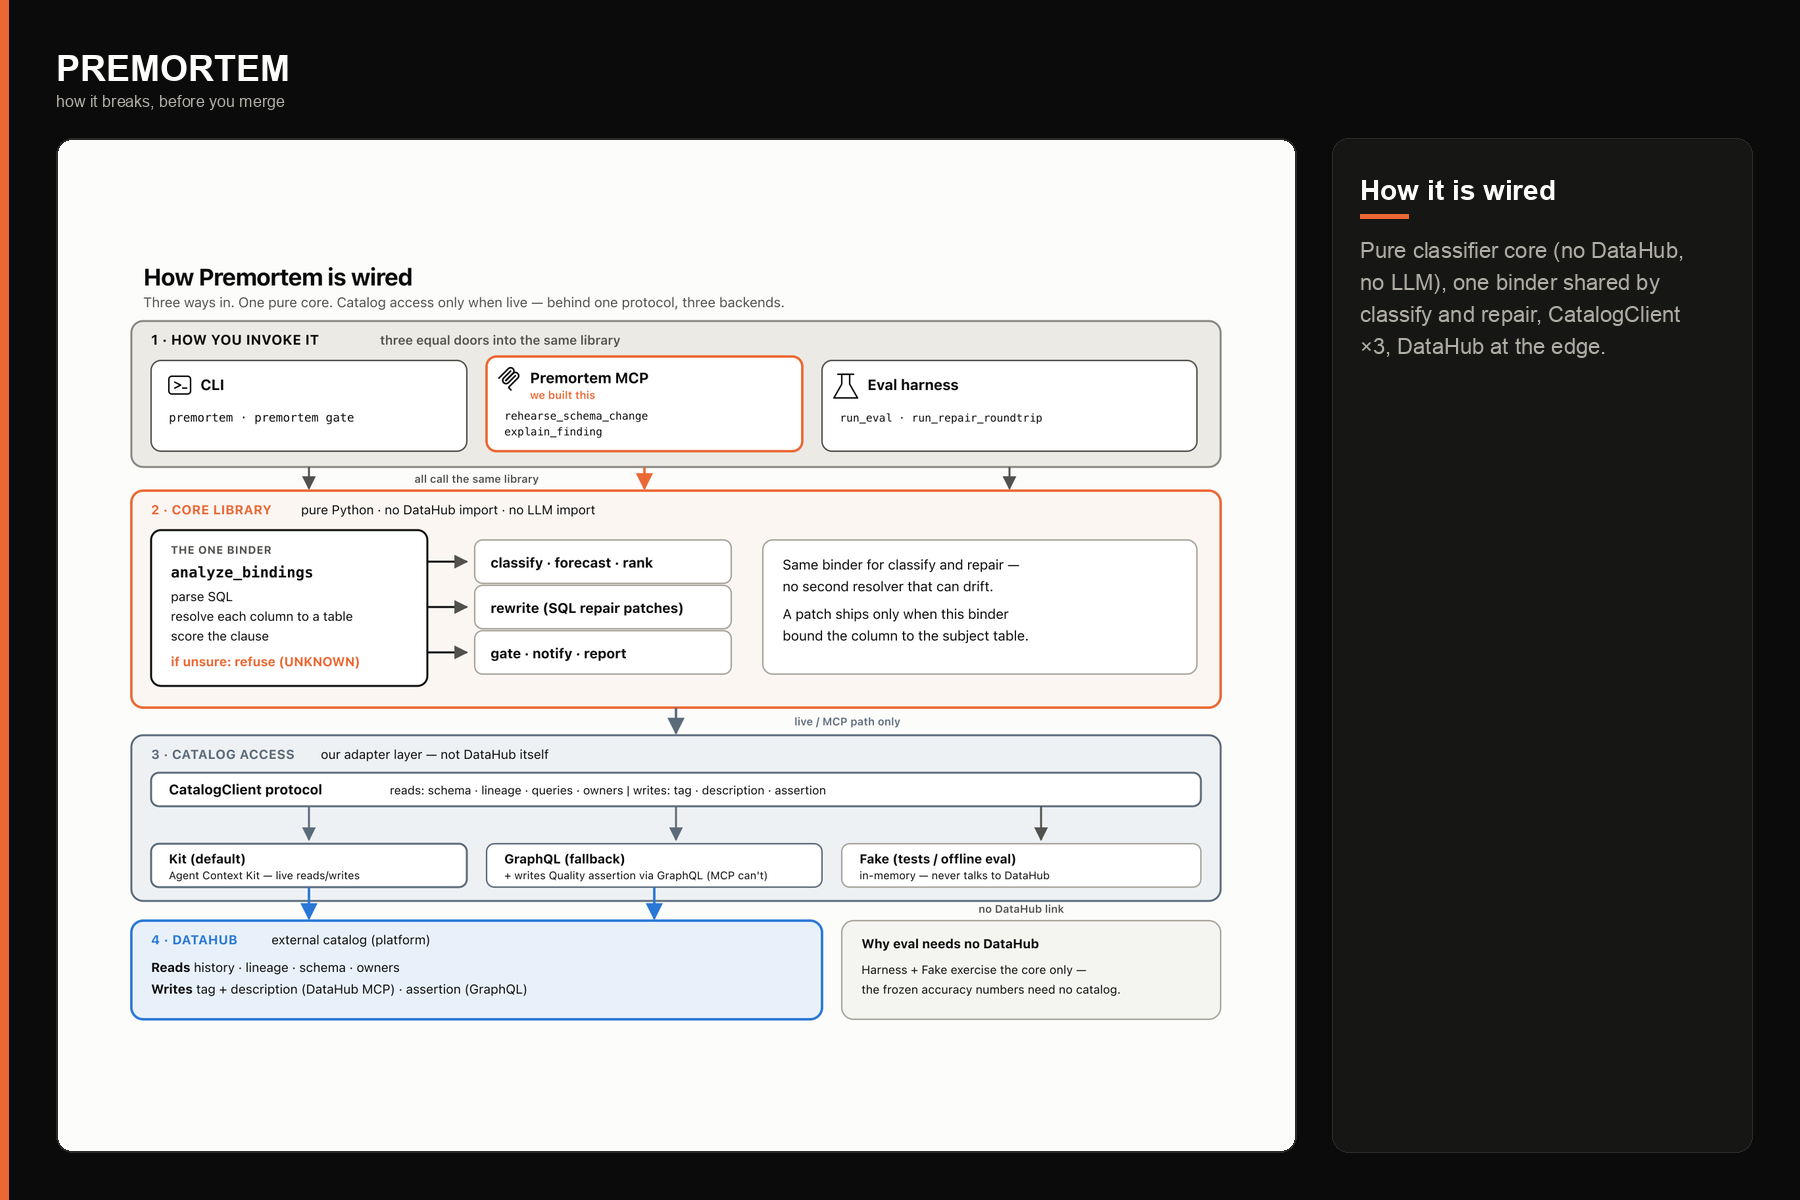
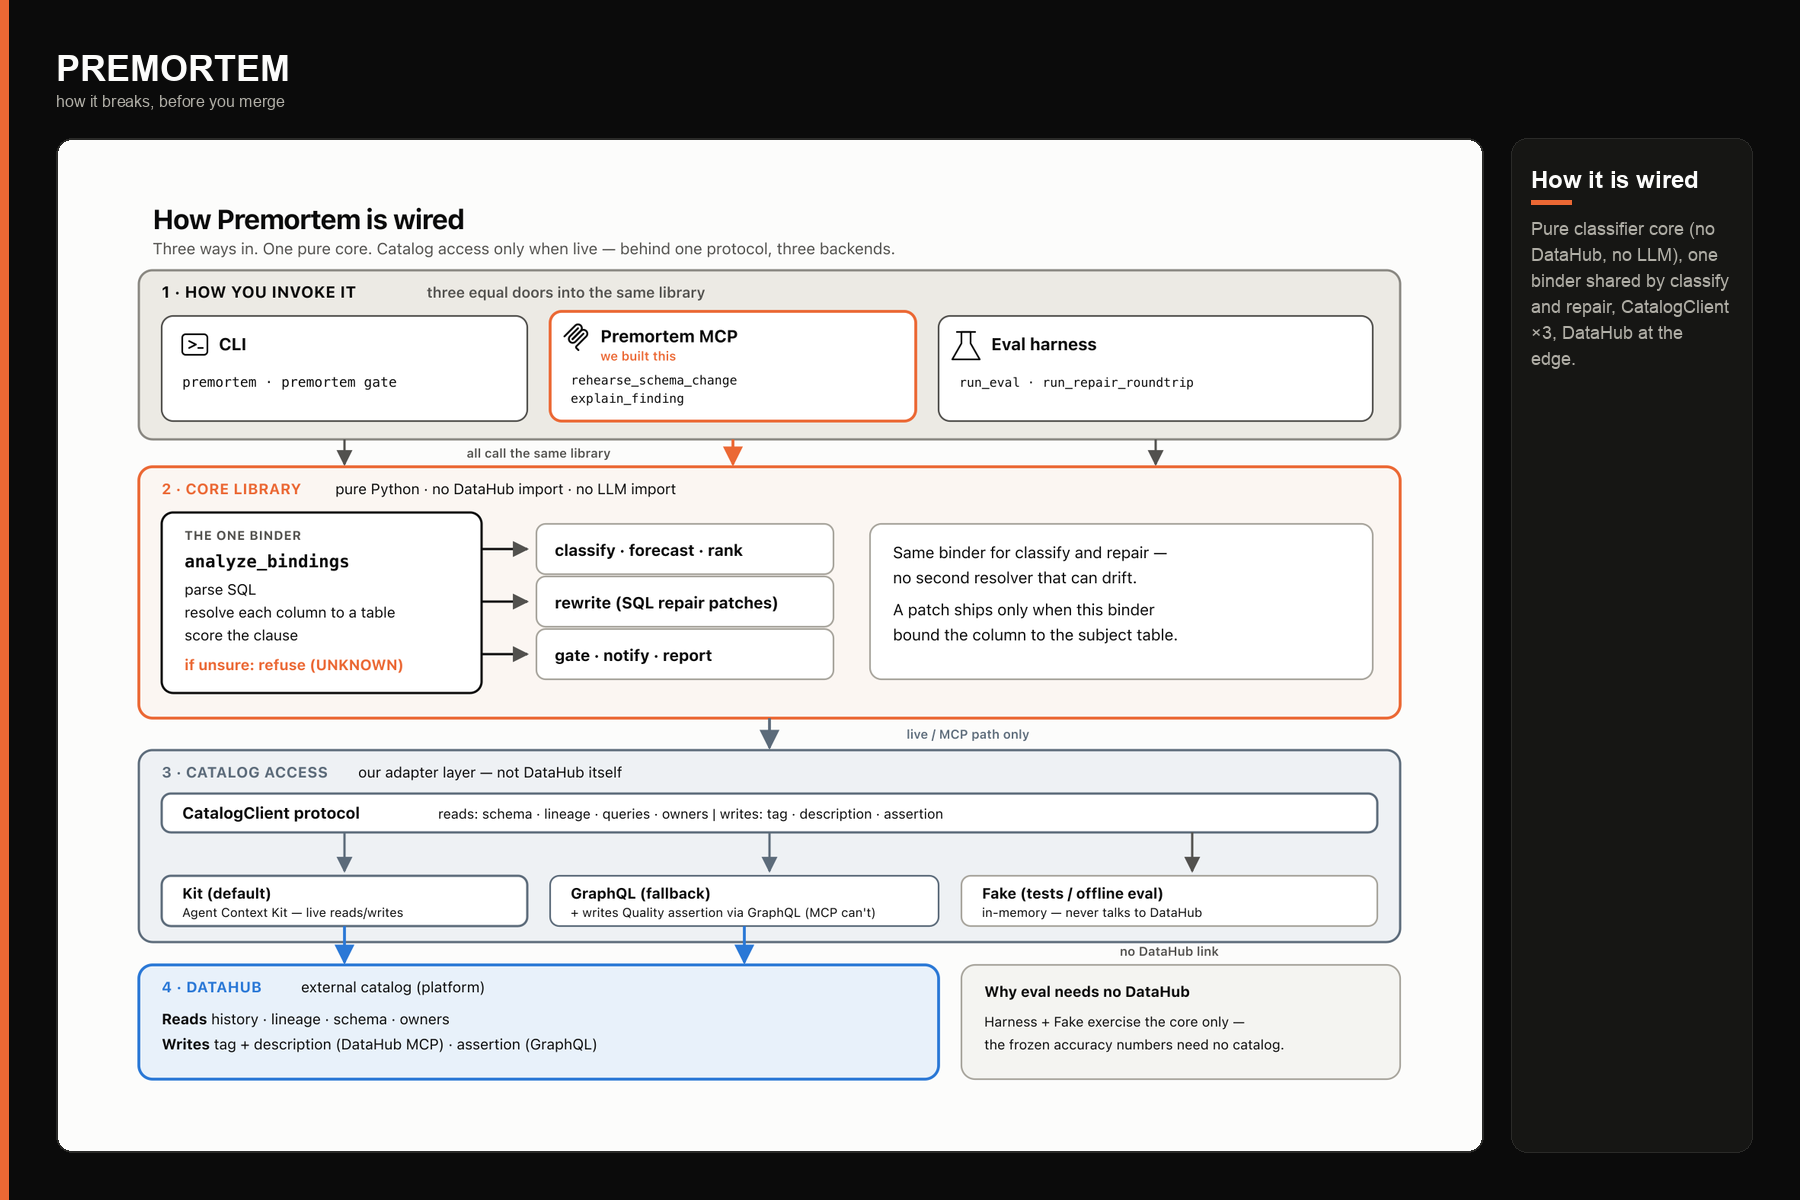
Widen gallery frames to an 85/15 diagram-to-caption split.
Gives the architecture and other diagrams more room inside the canvas.

Changed region(s): [[0.0622, 0.0925, 0.9644, 0.9867]]

diff --git a/tools/frame_gallery_images.py b/tools/frame_gallery_images.py
@@ -19,8 +19,11 @@ OUT = MEDIA / "gallery"
 W, H = 1800, 1200
 PAD = 48
 LEFT = 56
-CAPTION_W = 420
-GAP = 36
+GAP = 28
+# Content row between left margin and right pad: 85% diagram / 15% caption
+CONTENT_W = W - LEFT - PAD
+INSET_W = int(CONTENT_W * 0.85) - GAP // 2
+CAPTION_W = CONTENT_W - INSET_W - GAP
 BRAND = "#0b0b0b"
 ACCENT = "#eb6834"
 PANEL = "#161614"
@@ -111,17 +114,15 @@ def frame_one(stem: str, title: str, caption: str) -> Path:
     draw.rectangle((0, 0, 8, H), fill=ACCENT)
 
     brand_font = _font(36, bold=True)
-    title_font = _font(28, bold=True)
-    body_font = _font(22)
     small_font = _font(16)
 
     draw.text((LEFT, PAD), "PREMORTEM", font=brand_font, fill=INK)
     draw.text((LEFT, PAD + 44), "how it breaks, before you merge", font=small_font, fill=MUTED)
 
-    # Diagram inset area
+    # Diagram inset area (85% of content width)
     inset_x = LEFT
     inset_y = PAD + 90
-    inset_w = W - LEFT - CAPTION_W - GAP - PAD
+    inset_w = INSET_W
     inset_h = H - inset_y - PAD
 
     # White panel for diagram
@@ -145,28 +146,30 @@ def frame_one(stem: str, title: str, caption: str) -> Path:
     dy = inset_y + (inset_h - nh) // 2
     canvas.paste(diagram, (dx, dy))
 
-    # Caption panel
+    # Caption panel (15% of content width)
     cx = inset_x + inset_w + GAP
     cy = inset_y
     draw.rounded_rectangle(
-        (cx, cy, cx + CAPTION_W - PAD + LEFT - 8, cy + inset_h),
+        (cx, cy, cx + CAPTION_W, cy + inset_h),
         radius=16,
         fill=PANEL,
         outline="#2a2a28",
         width=1,
     )
-    tx = cx + 28
-    ty = cy + 36
+    tx = cx + 20
+    ty = cy + 28
+    # Slightly smaller type so 15% panel still reads
+    title_font = _font(24, bold=True)
+    body_font = _font(18)
     draw.text((tx, ty), title, font=title_font, fill=INK)
-    # Accent underline
-    draw.rectangle((tx, ty + 40, tx + 48, ty + 44), fill=ACCENT)
+    draw.rectangle((tx, ty + 34, tx + 40, ty + 38), fill=ACCENT)
 
-    body_top = ty + 64
-    lines = _wrap(draw, caption, body_font, CAPTION_W - PAD - 40)
+    body_top = ty + 52
+    lines = _wrap(draw, caption, body_font, CAPTION_W - 40)
     y = body_top
     for line in lines:
         draw.text((tx, y), line, font=body_font, fill=MUTED)
-        y += 32
+        y += 26
 
     OUT.mkdir(parents=True, exist_ok=True)
     out = OUT / f"{stem}.png"
